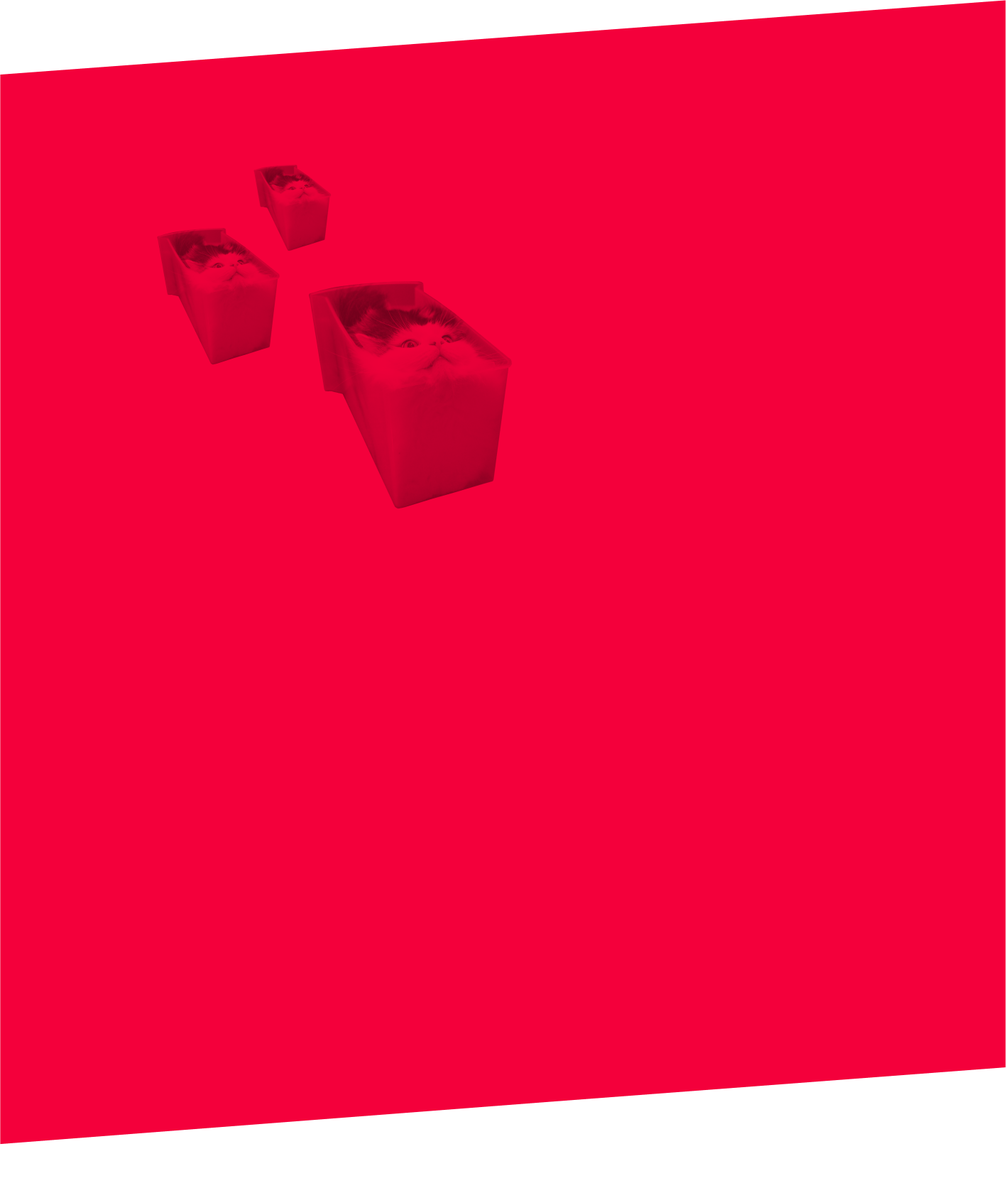
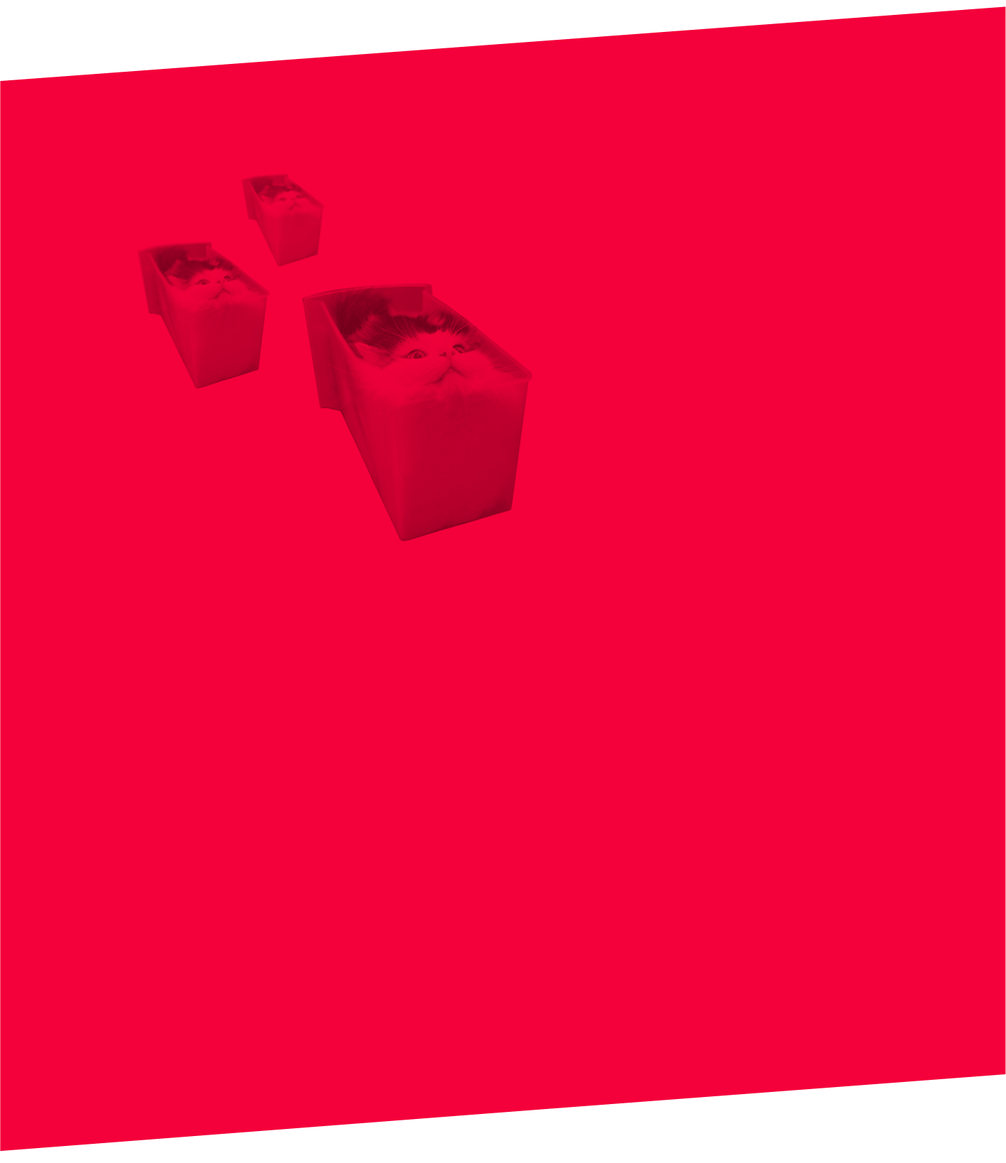
-

diff --git a/index.html b/index.html
@@ -1,131 +1,123 @@
 <!DOCTYPE html>
 <html lang="en" dir="ltr">
-  <head>
-    <meta charset="utf-8">
-    <link rel="stylesheet" href="styles/stylesheets.css">
-    <title>Гид первокурсника</title>
-  </head>
-  <body>
-    <div class="wrapper">
-      <header>
-          <span>HSEADC</span>
-          <div class="header_txt">
-            <span>что тут<br>происходит?</span>
-            <h1>послание первокурснику</h1>
-          </div>
-          <nav>
-            <ol>
-              <li><a href="#lessons">УЧЁБА</a></li>
-              <li><a href="#lifehacks">ЛАЙФХАКИ</a></li>
-              <li><a href="#resources">РЕСУРСЫ</a></li>
-              <li><a href="#about_hse">О ВЫШКЕ</a></li>
-            </ol>
-          </nav>
-      </header>
-        <main>
-         <section class="lessons" id="lessons">
-           <div class="les_text">
-             <h2>Какие тут<br>бывают занятия?</h2>
-             <a href="#">подробный план</a>
-           </div>
+<head>
+  <meta charset="utf-8">
+  <link rel="stylesheet" href="styles/stylesheets.css">
+  <title>Послание первокурснику</title>
+</head>
+<body>
+  <div class="wrapper">
+    <header>
+      <span>HSEADC</span>
+      <div class="header_txt">
+        <span>что тут<br>происходит?</span>
+        <h1>послание первокурснику</h1>
+      </div>
+      <nav>
+        <ol>
+          <li><a target="_blank" href="#lessons">УЧЁБА</a></li>
+          <li><a target="_blank" href="#hack">ЛАЙФХАКИ</a></li>
+          <li><a target="_blank" href="#res">РЕСУРСЫ</a></li>
+          <li><a target="_blank" href="#hse">О ВЫШКЕ</a></li>
+        </ol>
+      </nav>
+    </header>
+    <main>
 
-           <div class="type_of_lessons">
-             <div class="lesson">
-               <img src="img/les1.svg" alt="">
-               <h4>Лекции</h4>
-               <span>Преподаватель объясняет материал</span>
-             </div>
-
-             <div class="lesson">
-               <img src="img/les2.svg" alt="">
-               <h4>Воркшопы</h4>
-               <span>Практические<br>занятия</span>
-             </div>
-
-             <div class="lesson">
-               <img src="img/les3.svg" alt="">
-               <h4>Ревью</h4>
-               <span>Просмотр и оценивание проектов на этапе разработки</span>
-             </div>
-           </div>
-         </section>
-
-         <div class="hack">
-           <section class="lifehacks">
-             <div class="food">
-               <h2>Лайфхаки</h2>
-               <h3>Где найти еду?</h3>
-               <p>В&nbsp;ШД&nbsp;на&nbsp;первом этаже есть столовая( иногда там не вкусно, а иногда очень даже), а&nbsp;на&nbsp;1, 3&nbsp;и&nbsp;4&nbsp;этажах автоматы с&nbsp;едой. Недалеко есть кафе &laquo;Братья караваевы&raquo; и&nbsp;&laquo;Место варенья&raquo;. А&nbsp;ещё около&nbsp;ШД есть супермаркеты &laquo;Sprat&raquo;, &laquo;Вкусвилл&raquo;, &laquo;Ситистор&raquo; и&nbsp;&laquo;Prime&raquo;.</p>
-             </div>
-             <div class="cof">
-               <h3>Где пить кофе?</h3>
-               <p>В Школе дизайна можно найти кофе в столовой и в автоматах на 1 и 4 этажах. Он&nbsp;вполне нормальный. Если хочется чего-то получше, можно сходить в&nbsp;&laquo;Surf&raquo;, &laquo;Starbucks&raquo; или&nbsp;&laquo;Даблби&raquo;. Еще надалеко от&nbsp;Школы дизайна есть &laquo;Fixprice&raquo;.</p>
-             </div>
-
-              <div class="work wh">
-                 <h3>Где поработать?</h3>
-                 <p>В&nbsp;ШД&nbsp;на&nbsp;4&nbsp;этаже (напротив автомата с&nbsp;кофе) есть &laquo;аквариум&raquo;, там&nbsp;можно удобно и&nbsp;спокойно позаниматься. Можно засесть в&nbsp;365 аудитории или в&nbsp;любой другой свободной. В&nbsp;Школе дизайна есть бесплатный вай-фай, так что можно спокойно работать сколько угодно. В&nbsp;корпусе Вышки на&nbsp;Покровском бульваре есть крутая библиотека, она работает 24/7. В&nbsp;этом&nbsp;же здании можно поработать в&nbsp;одном из&nbsp;атриумов.</p>
-              </div>
-
-              <div class="disc wh">
-                 <h3>Студенческие скидки</h3>
-                 <p>Ты&nbsp;студент Вышки и&nbsp;для тебя везде скидки (а&nbsp;иногда вообще бесплатно). Можно бесплатно ходить в&nbsp;художественные музеи м&nbsp;галереи, в&nbsp;кино, на&nbsp;спектакли и&nbsp;другие мероприятия. В&nbsp;кофейне &laquo;Даблби&raquo; (Павелецкая пл., 2/2) тоже скидки в будние дни. Главное найти свободное время, взять с&nbsp;собой студенческий (справка тоже сгодится) и&nbsp;паспорт.</p>
-              </div>
-           </section>
-         </div>
-
-         <div class="res">
-           <section class="resources">
-             <div class="fonts">
-               <h2>Ресурсы</h2>
-               <h3>Скачать шрифты</h3>
-               <p>Google Fonts&nbsp;&mdash; отличный сайт с&nbsp;бесплатными шрифтами. Необычные шрифты можно найти на&nbsp;dinamo, velvetyne и&nbsp;typefaces. На&nbsp;сайте typetoday можно не&nbsp;только скачать шрифты, но&nbsp;и&nbsp;почитать крутые статьи, например про тире. Вконтаке есть много пабликов с&nbsp;бесплатными шрифтами.</p>
-             </div>
-
-             <div class="prog">
-               <h3>В чём работать?</h3>
-               <img src="img/prog.svg" alt="Лого программ">
-               <p>На&nbsp;самом деле, не&nbsp;важно, какой инструмент ты&nbsp;выберешь. Самые популярные программы для веб-дизайна это Figma и&nbsp;Sketch. Figma&nbsp;&mdash; бесплатное веб-приложение, можно запустить её&nbsp;прямо браузере на&nbsp;любой операционной системе. Sketch подходит только для Mac. Ещё есть Adobe XD, Framer X и другие инструменты. Пробуй и выбирай то,&nbsp;что&nbsp;больше нравится.</p>
-             </div>
-
-             <div class="read wh">
-               <h3>Почитать про всякое</h3>
-               <p>На&nbsp;сайте Medium есть куча классных статей на&nbsp;разные темы (а&nbsp;ещё, этот сайт пример отличного дизайна). Типографика это супер важно, на&nbsp;эту тему можно почитать &laquo;О&nbsp;шрифтe&raquo; Шпикермана, а&nbsp;чтобы правильно оформлять текст (да, здесь обращают на&nbsp;это внимание) можно изучить руководство по&nbsp;оформлению текста. Ещё советую почитать классные книги &laquo;Искусство формы&raquo; и&nbsp;&laquo;Искусство цвета&raquo; Йоханнеса Иттена. Обязательно зарегайся на&nbsp;Hack Exhange, там вся важная для тебя инфа.</p>
-             </div>
-
-             <div class="insp wh">
-               <h3>Для вдохновения</h3>
-               <p>Если нужно посмотреть на&nbsp;классные примеры, можно зайти на&nbsp;Behance, Awwards и&nbsp;Dribble. Ещё стоит смотреть на&nbsp;реальные проеты разных дизайн студий, например Бюро, Собака Павлова и&nbsp;Shishki. Посмотреть на&nbsp;работы студентов разных профилей можно в&nbsp;разделе &laquo;студенческое портфолио&raquo; на&nbsp;сайте ШД. Не&nbsp;забывай смотреть на&nbsp;работы одногруппников и&nbsp;обмениваться опытом :)</p>
-             </div>
-           </section>
-         </div>
-
-         <div class="hse">
-           <section class="about_hse" id="about_hse">
-             <div class="hse_text">
-               <h2>О Вышке</h2>
-               <p>Школа дизайна&nbsp;&mdash; это ещё не&nbsp;весь мир. В&nbsp;Вышке есть более 100 студенческих организаций, свое студенческое самоуправление и&nbsp;хорошие карьерные возможности. На&nbsp;первом курсе может быть мало времени (особенно в&nbsp;первом модуле), не&nbsp;спеши сразу везде вступать. Можно просто ходить на&nbsp;интересные мероприятия от&nbsp;разных Вышкинских организайций.</p>
-             </div>
-
-             <div class="hse_res">
-               <h3>Ресурсы Вышки</h3>
-                 <div class="hse_pic">
-                   <a>
-                     <img src="img/hse1.svg" alt="">
-                     <h4>корпуса</h4>
-                   </a>
-                   <a>
-                     <img src="img/hse2.svg" alt="">
-                     <h4>организации</h4>
-                   </a>
-                   <a>
-                     <img src="img/hse3.svg" alt="">
-                     <h4>мероприятия</h4>
-                   </a>
-                </div>
-              </div>
-            </section>
+      <section class="lessons" id="lessons">
+        <div class="les_text">
+          <h2>Какие тут<br>бывают занятия?</h2>
+          <a target="_blank" href="https://creativemap.hse.ru/timetable/1200">подробный план</a>
         </div>
-      </main>
-    </div>
-  </body>
+        <div class="type_of_lessons">
+          <div class="lesson">
+            <img src="img/les1.svg" alt="картинка рупор">
+            <h4>Лекции</h4>
+            <span>Преподаватель объясняет материал</span>
+          </div>
+          <div class="lesson">
+            <img src="img/les2.svg" alt="картинка лапка">
+            <h4>Воркшопы</h4>
+            <span>Практические<br>занятия</span>
+          </div>
+          <div class="lesson">
+            <img src="img/les3.svg" alt="картинка глаз">
+            <h4>Ревью</h4>
+            <span>Просмотр и оценивание проектов на этапе разработки</span>
+          </div>
+        </div>
+      </section>
+
+      <div class="hack" id="hack">
+       <section class="lifehacks">
+         <div class="food">
+           <h2>Лайфхаки</h2>
+           <h3>Где найти еду?</h3>
+           <p>В&nbsp;ШД&nbsp;на&nbsp;первом этаже есть столовая (иногда там не вкусно, а иногда очень даже), а&nbsp;на&nbsp;1, 3&nbsp;и&nbsp;4&nbsp;этажах автоматы с&nbsp;едой. Недалеко есть кафе &laquo;Братья караваевы&raquo; и&nbsp;&laquo;Место варенья&raquo;. А&nbsp;ещё около&nbsp;ШД есть супермаркеты &laquo;Sprat&raquo;, &laquo;Вкусвилл&raquo;, &laquo;Ситистор&raquo; и&nbsp;&laquo;Prime&raquo;.</p>
+         </div>
+         <div class="cof">
+           <h3>Где пить кофе?</h3>
+           <p>В Школе дизайна можно найти кофе в&nbsp;столовой и в автоматах на 1 и 4 этажах. Он&nbsp;вполне нормальный. Если хочется<br>чего-то получше, можно сходить в&nbsp;&laquo;Surf&raquo;, &laquo;Starbucks&raquo; или&nbsp;&laquo;Даблби&raquo;. Еще надалеко от&nbsp;Школы дизайна есть &laquo;Fixprice&raquo;.</p>
+         </div>
+         <div class="work wh">
+           <h3>Где поработать?</h3>
+           <p>В&nbsp;ШД&nbsp;на&nbsp;4&nbsp;этаже (напротив автомата с&nbsp;кофе) есть &laquo;аквариум&raquo;, там&nbsp;можно удобно и&nbsp;спокойно позаниматься. Можно засесть в&nbsp;365 аудитории или в&nbsp;любой другой свободной. В&nbsp;Школе дизайна есть бесплатный вай-фай, так что можно спокойно работать сколько угодно. В&nbsp;корпусе Вышки на&nbsp;Покровском бульваре есть крутая библиотека, она работает 24/7. В&nbsp;этом&nbsp;же здании можно поработать в&nbsp;одном из&nbsp;атриумов.</p>
+         </div>
+         <div class="disc wh">
+           <h3>Студенческие скидки</h3>
+           <p>Ты&nbsp;студент Вышки и&nbsp;для тебя везде скидки (а&nbsp;иногда вообще бесплатно). Можно ходить в&nbsp;художественные музеи и&nbsp;галереи, в&nbsp;кино, на&nbsp;спектакли и&nbsp;другие мероприятия. В&nbsp;кофейне &laquo;Даблби&raquo; (Павелецкая пл., 2/2) тоже скидки в будние дни. Главное найти свободное время, взять с&nbsp;собой студенческий (справка тоже&nbsp;сгодится) и&nbsp;паспорт.</p>
+         </div>
+       </section>
+      </div>
+
+      <div class="res" id="res">
+        <section class="resources">
+          <div class="fonts">
+            <h2>Ресурсы</h2>
+            <h3>Скачать шрифты</h3>
+            <p><a target="_blank" href="#">Google Fonts</a>&nbsp;&mdash; отличный сайт с&nbsp;бесплатными шрифтами. Необычные шрифты можно найти на&nbsp;<a target="_blank" href="#">dinamo</a>, <a target="_blank" href="#">velvetyne</a> и&nbsp;<a target="_blank" href="#">typefaces</a>. На&nbsp;сайте <a href="#">typetoday</a> можно не&nbsp;только скачать шрифты, но&nbsp;и&nbsp;почитать крутые статьи, например <a target="_blank" href="#">про тире</a>. Вконтаке есть много пабликов с&nbsp;бесплатными шрифтами.</p>
+          </div>
+          <div class="prog">
+            <img src="img/prog.svg" alt="Лого программ">
+            <h3>В чём работать?</h3>
+            <p>На&nbsp;самом деле, не&nbsp;важно, какой инструмент ты&nbsp;выберешь. Самые популярные программы для веб-дизайна это Figma и&nbsp;Sketch. Figma&nbsp;&mdash; бесплатное веб-приложение, можно запустить её&nbsp;прямо браузере на&nbsp;любой операционной системе. Sketch подходит только для Mac. Ещё есть Adobe XD, Framer X и другие инструменты. Пробуй и выбирай то,&nbsp;что&nbsp;больше нравится.</p>
+          </div>
+          <div class="read wh">
+            <h3>Почитать про всякое</h3>
+            <p>На&nbsp;сайте <a target="_blank" href="#">Medium</a> есть куча классных статей на&nbsp;разные темы<br>(а&nbsp;ещё, этот сайт пример отличного дизайна). Типографика это супер важно. На&nbsp;эту тему можно почитать &laquo;О&nbsp;шрифтe&raquo; Шпикермана, а&nbsp;чтобы правильно оформлять текст можно изучить<a target="_blank" href="#">руководство по&nbsp;оформлению текста<a>. Ещё советую почитать классные книги &laquo;Искусство формы&raquo; и&nbsp;&laquo;Искусство цвета&raquo; Йоханнеса Иттена. Обязательно зарегайся на&nbsp;<a target="_blank" href="#">Hack Exhange</a>, там ты найдешь всю&nbsp;важную для тебя инфу.</p>
+          </div>
+          <div class="insp wh">
+            <h3>Для вдохновения</h3>
+            <p>Если нужно посмотреть на&nbsp;классные примеры, можно зайти на&nbsp;<a target="_blank" href="#">Behance</a>, <a target="_blank" href="#">Awwards</a> и&nbsp;<a target="_blank" href="#">Dribble</a>. Ещё стоит смотреть на&nbsp;реальные проеты разных дизайн студий, например <a target="_blank" href="#">Бюро</a>, <a target="_blank" href="#">Собака Павлова</a> и&nbsp;<a target="_blank" href="#">Shishki</a>. Посмотреть на&nbsp;работы студентов разных профилей можно в&nbsp;разделе <a target="_blank" href="#">&laquo;студенческое портфолио&raquo;</a> на&nbsp;сайте ШД. Не&nbsp;забывай смотреть на&nbsp;работы одногруппников и&nbsp;обмениваться опытом :)</p>
+          </div>
+        </section>
+      </div>
+
+      <div class="hse" id="hse">
+        <section class="about_hse">
+          <div class="hse_text">
+            <h2>О Вышке</h2>
+            <p>Школа дизайна&nbsp;&mdash; это ещё не&nbsp;весь мир. В&nbsp;Вышке есть более 100 студенческих организаций. На&nbsp;первом курсе может быть мало времени (особенно в&nbsp;первом модуле), не&nbsp;спеши сразу везде вступать. Можно просто ходить на&nbsp;интересные мероприятия от&nbsp;разных Вышкинских организайций.</p>
+          </div>
+          <div class="hse_res">
+           <h3>Ресурсы Вышки</h3>
+           <div class="hse_pic">
+             <a target="_blank" href="https://www.hse.ru/buildinghse/">
+               <img src="img/hse1.svg" alt="">
+               <h4>корпуса</h4>
+             </a>
+             <a target="_blank" href="https://family.hse.ru/crowdfunding/allproject">
+               <img src="img/hse2.svg" alt="">
+               <h4>организации</h4>
+             </a>
+             <a target="_blank" href="https://studlife.hse.ru/news/announcements/">
+               <img src="img/hse3.svg" alt="">
+               <h4>мероприятия</h4>
+             </a>
+            </div>
+          </div>
+        </section>
+      </div>
+    </main>
+  </div>
+</body>

diff --git a/styles/layout.css b/styles/layout.css
@@ -3,7 +3,7 @@ body {
 }
 
 .wrapper {
-  background-image: url("../img/cover2.png");
+  background-image: url("../img/cover.png");
   background-repeat: no-repeat;
   background-size: 100%;
 }
@@ -65,6 +65,7 @@ h4 {
   font-weight: 800;
   font-size: 18px;
   text-transform: uppercase;
+  letter-spacing: 0.04em;
 }
 
 h2 + h3 {
@@ -115,10 +116,22 @@ p {
   padding-top: 190px;
 }
 
+.food,
+.fonts,
+.hse_text {
+  margin-left: auto;
+}
+
 /* --------------------ССЫЛКИ----------------------- */
 
 a {
   text-decoration: none;
+}
+
+section a {
+  color: rgb(199, 0, 4);
+  font-weight: 500;
+  color: rgba(241, 0, 58);
 }
 
 a:hover {
@@ -126,21 +139,19 @@ a:hover {
 }
 
 section a:hover {
-  text-decoration: underline;
-  color: rgb(211, 0, 51);
+  color: rgb(199, 0, 4);
 }
 
-section a {
+.food a,
+.fonts a,
+.hse_text a {
   color: rgb(103, 0, 25);
-  font-weight: 500;
 }
 
-.lessons a {
-  color: rgba(241, 0, 58);
-}
-
-section div:first-child:not(.lesson) {
-  margin-left: auto;
+.food a:hover,
+.fonts a:hover,
+.hse a:hover {
+  color: white;
 }
 
 /* ---------------------МЕНЮ---------------------- */
@@ -194,11 +205,11 @@ width: 100%;
 }
 
 .cof {
-  margin-top: 450px;
+  margin-top: 470px;
 }
 
 .work {
-  margin-top: 460px;
+  margin-top: 400px;
 }
 
 /* --------------------РЕСУРСЫ--------------------- */
@@ -223,14 +234,18 @@ width: 100%;
 }
 
 .prog {
-  padding-top: 200px;
+  padding-top: 480px;
   width: 600px;
+  position: relative;
 }
 
 .prog img {
   margin: 80px 0;
+  position: absolute;
+  top: 200px;
+  left: -220px;
 }
 
 .read {
-  margin-top: 300px;
+  margin-top: 320px;
 }

diff --git a/styles/about_hse.css b/styles/about_hse.css
@@ -19,11 +19,6 @@
   width: 160px;
 }
 
-.hse a:hover {
-  color: black;
-  text-decoration: underline;
-}
-
 .hse_pic img {
   display: block;
   margin: 0 auto;

diff --git a/styles/lessons.css b/styles/lessons.css
@@ -1,5 +1,5 @@
 .lessons {
-  margin-top: 280px;
+  margin-top: 300px;
 }
 
 .type_of_lessons {
